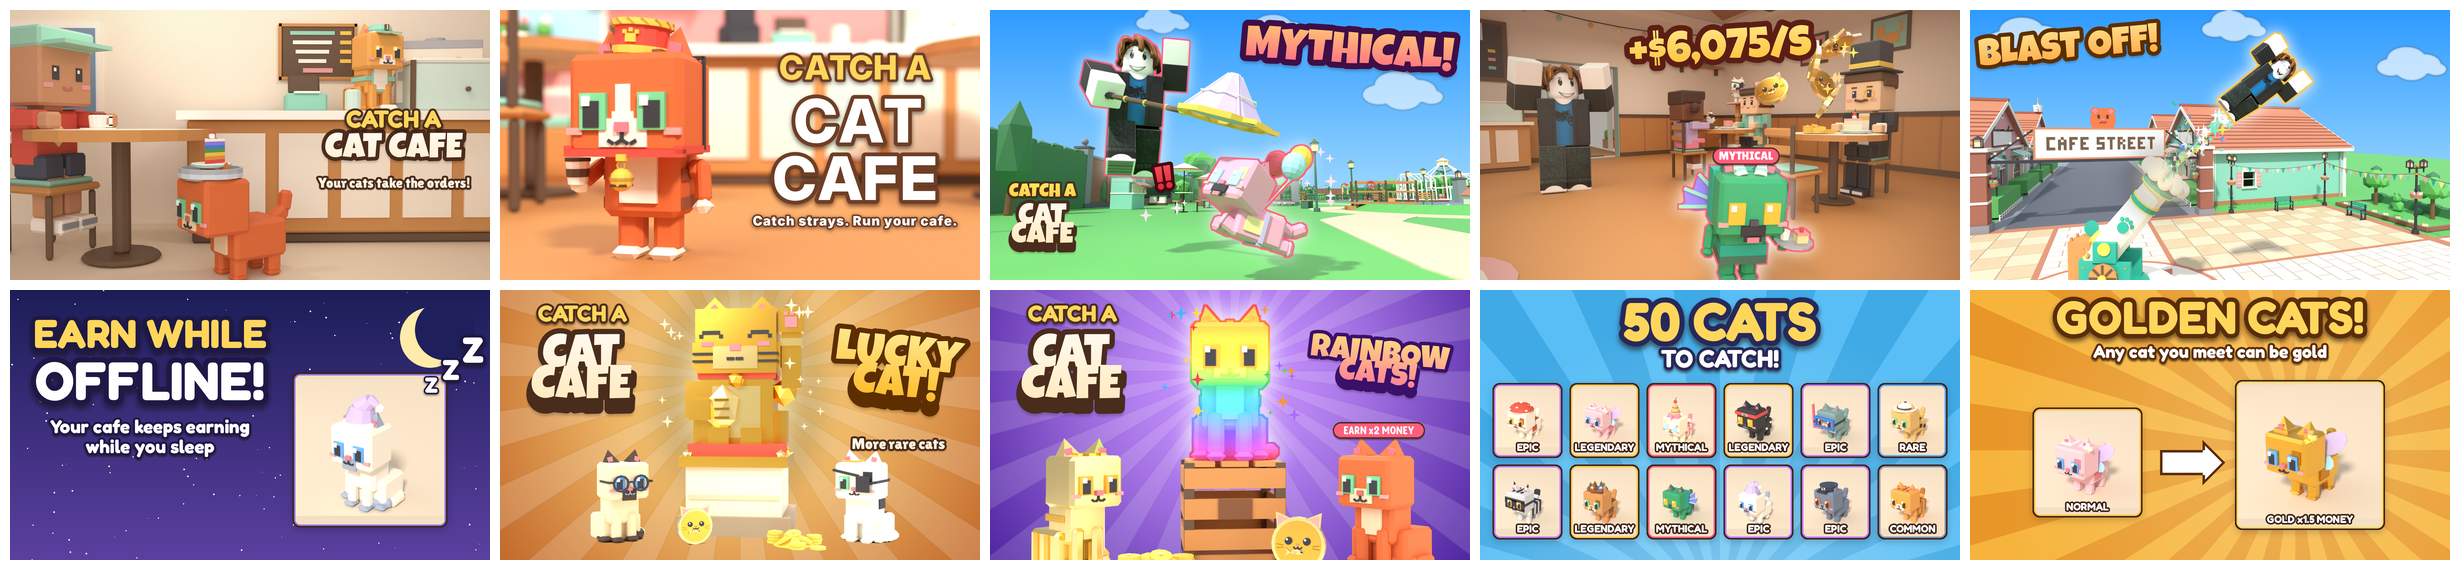
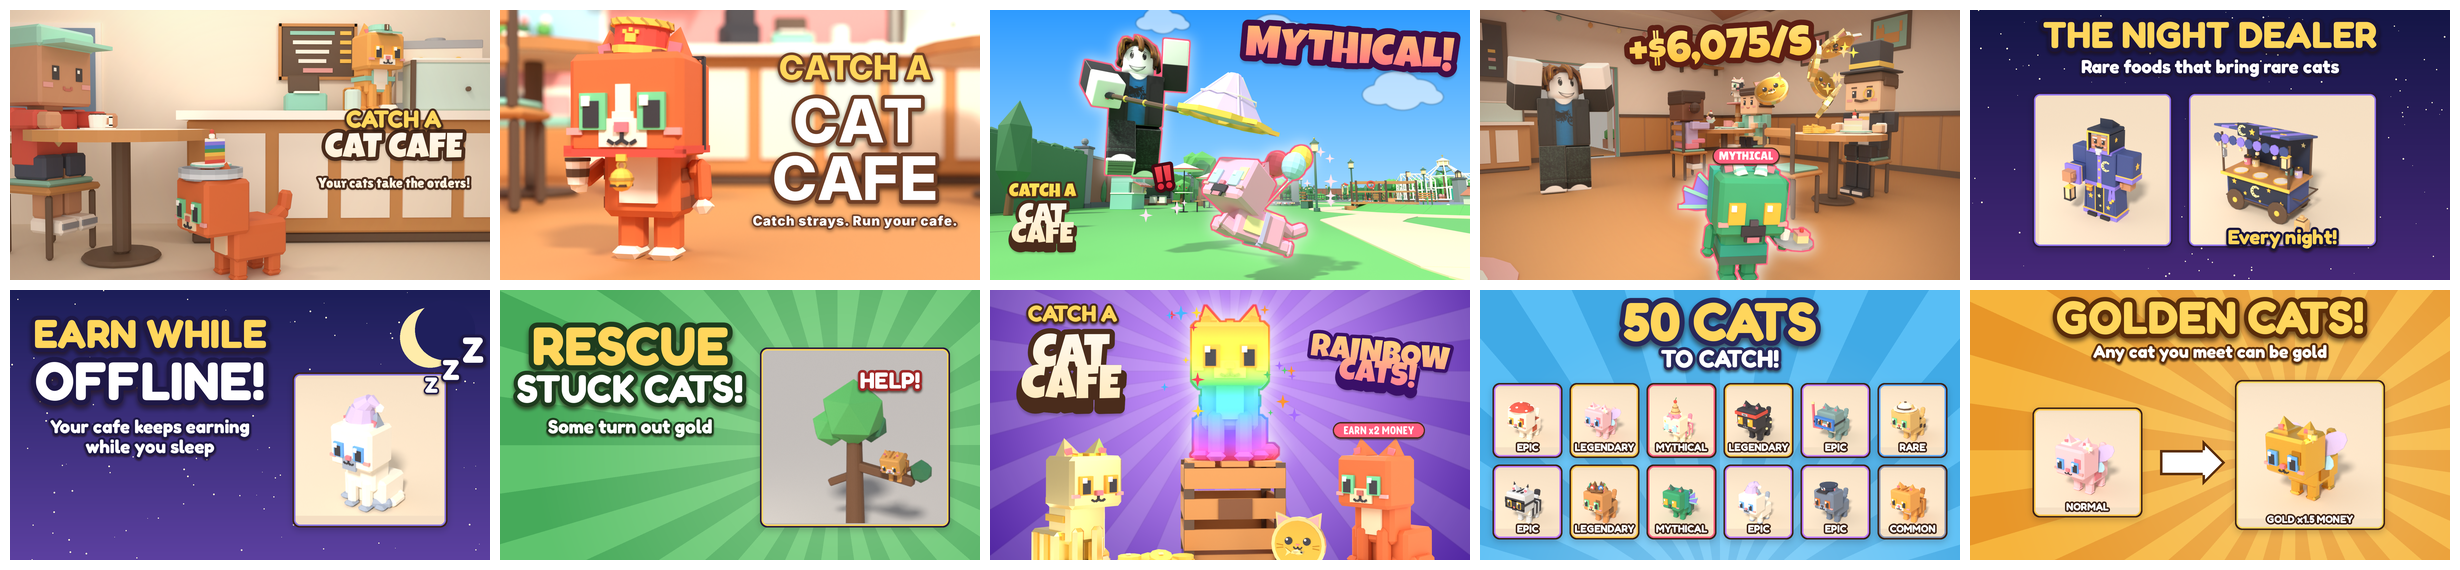
Ads: swap cannon and Lucky Cat for Night Dealer and Rescue (#2422 follow-up)
Derek2 2026-11-08: "swap the cannon and lucky cat ads for 2 different ones".

Claude-Session: https://claude.ai/code/session_01DW2uoy8twpm71brKt1HK2p

Changed region(s): [[0.8033, 0.0, 1.0, 0.507], [0.1854, 0.507, 0.4016, 0.9842]]

diff --git a/docs/growth/store-art/2026-11-08-ads/compose_new_ads.py b/docs/growth/store-art/2026-11-08-ads/compose_new_ads.py
@@ -93,3 +93,41 @@ def offline(out, name='Ragdoll_Sit'):
     for i,(x,y,s) in enumerate([(1660,350,60),(1730,280,80),(1810,190,100)]):
         im,_=text(im,'Z',x,y,s,(255,255,255),outline=(30,24,70),stroke=max(6,s//9),anchor_x='l')
     im.convert('RGB').save(out,optimize=True)
+
+def pcard(path, box, w, h, border):
+    """A card from any preview render, cropped to box."""
+    src=Image.open(path).convert('RGBA'); bg=src.getpixel((box[0]+4,box[1]+4))
+    cw,ch=w-24,h-24
+    crop=src.crop(box); s=min(cw/crop.width,ch/crop.height); crop=crop.resize((int(crop.width*s),int(crop.height*s)),Image.LANCZOS)
+    inner=Image.new('RGBA',(cw,ch),bg); inner.paste(crop,((cw-crop.width)//2,(ch-crop.height)//2))
+    c=Image.new('RGBA',(w,h),(0,0,0,0)); d=ImageDraw.Draw(c)
+    d.rounded_rectangle((0,0,w-1,h-1),radius=28,fill=(40,24,60,255)); d.rounded_rectangle((6,6,w-7,h-7),radius=24,fill=border+(255,))
+    mi=Image.new('L',(cw,ch),0); ImageDraw.Draw(mi).rounded_rectangle((0,0,cw-1,ch-1),radius=18,fill=255); c.paste(inner,(12,12),mi)
+    return c
+
+def dealer(out):
+    import random
+    W,H=1920,1080; P='docs/concepts/cat-cafe/previews/'
+    ys=np.linspace(0,1,H)[:,None,None]; top=np.array((20,22,70),float); bot=np.array((70,40,120),float)
+    im=Image.fromarray(((top*(1-ys)+bot*ys)*np.ones((1,W,1))).astype(np.uint8)).convert('RGBA')
+    d=ImageDraw.Draw(im); rnd=random.Random(11)
+    for _ in range(160):
+        x,y=rnd.randrange(W),rnd.randrange(H); r=rnd.choice([1,2,2,3]); d.ellipse((x-r,y-r,x+r,y+r),fill=(255,250,220,rnd.randrange(120,255)))
+    im,_=text(im,'THE NIGHT DEALER',960,48,104,YELLOW,outline=(25,20,60),stroke=15)
+    im,_=text(im,'Rare foods that bring rare cats',960,200,52,(255,255,255),outline=(25,20,60),stroke=8)
+    a=pcard(P+'CatCafe_NPC_Dealer.png',(150,40,490,440),560,620,(150,120,240))
+    b=pcard(P+'CatCafe_Street_DealerCart.png',(130,70,560,420),760,620,(150,120,240))
+    im=shadowed(im,a,(250,330)); im=shadowed(im,b,(870,330))
+    im,_=text(im,'Every night!',1250,880,56,YELLOW,outline=(25,20,60),stroke=9)
+    im.convert('RGB').save(out,optimize=True)
+
+def rescue(out):
+    P='docs/concepts/cat-cafe/previews/'
+    im=rays((1920,1080),(1350,620),(70,170,90),(95,195,110),glow=(240,255,220))
+    im,_=text(im,'RESCUE',520,150,150,YELLOW,outline=(30,60,30),stroke=20)
+    im,_=text(im,'STUCK CATS!',520,340,110,(255,255,255),outline=(30,60,30),stroke=16)
+    im,_=text(im,'Some turn out gold',520,520,54,(255,255,255),outline=(30,60,30),stroke=8)
+    c=pcard(P+'CatCafe_Park_RescueTree.png',(140,50,440,330),760,720,(255,214,92))
+    im=shadowed(im,c,(1040,230))
+    im,_=text(im,'HELP!',1560,330,64,(255,255,255),outline=(160,40,40),stroke=10)
+    im.convert('RGB').save(out,optimize=True)

diff --git a/docs/growth/store-art/2026-11-08-ads/README.md b/docs/growth/store-art/2026-11-08-ads/README.md
@@ -8,9 +8,9 @@ These are the 10 pictures for the first Ads Manager campaign in `docs/growth/ad-
 | `Ad_02_BellhopCafe.png` | Cute cat and the brand | Set 3 P v3, unchanged | The Bellhop Cat is the free starter cat (F96) |
 | `Ad_03_MythicalCatch.png` | Catch moment | Set 3 N v2, unchanged | The Balloon Cat is Mythical in Catalog, and the player swings the net |
 | `Ad_04_TopEarner.png` | Income | Set 3 L v2, unchanged | Mythical 75/s x Sewer 81 = 6,075/s (Catalog `AREA_INCOME`) |
-| `Ad_05_PlayerCannon.png` | Cannon, player hero | Set 3 O v2, unchanged | F84 Cat Cannon flight |
+| `Ad_05_NightDealer.png` | The night dealer (Derek2 2026-11-08: swap out the cannon) | New: the dealer and his cart from the preview renders on a starry sky | DealerService: the cart comes every night and sells rare foods for coins (no Robux), which give better odds of rare cats |
 | `Ad_06_EarnOffline.png` | Earn while offline (Derek2, 2026-11-08: "can also use earn offline for ads") | New: night sky with the Sleepy Cat (Ragdoll) in its nightcap | `Config.OfflineRate = 0.5` for up to 8 hours, free for everyone (the pass raises it, but the picture doesn't mention the pass) |
-| `Ad_07_LuckyCat.png` | Rare cats | Set 2 I, with CATCH A added | The Lucky Cat statue adds luck (`Config.LuckPerStatueLevel`) |
+| `Ad_07_RescueCats.png` | Rescuing stuck cats (Derek2 2026-11-08: swap out the Lucky Cat) | New: the Park rescue tree with its stuck cat | RescueService; `Config.GoldChanceRescue = 0.12`, so some rescued cats turn out gold |
 | `Ad_08_RainbowCats.png` | Rainbow cats | Set 2 F, with CATCH A added and the pill changed from x3 to **x2** | `Config.RainbowMultiplier = 2` (Derek2, 2026-11-07) |
 | `Ad_09_FiftyCats.png` | Collection | New: 12 cat cards from the preview renders, with rarity borders in the game's rarity colours | 50 catchable cats in Catalog; each card's rarity matches Catalog |
 | `Ad_10_GoldenCats.png` | Gold cats | New: Blossom next to its gold twin | Any stray can roll gold (`GoldChanceNet` / `GoldChanceBait`), and a gold cat earns `GoldMultiplier = 1.5` |
@@ -18,7 +18,7 @@ These are the 10 pictures for the first Ads Manager campaign in `docs/growth/ad-
 Left out:
 
 - Set 3 K ("1 IN 200"): a rainbow cat is now 1 in 67 (`RainbowChanceNet = 0.015`), so 200 overstates how rare it is. A rainbow Mythical really is about 1 in 5,500 per stray (1.2% Mythical in every area's odds x 1.5% rainbow). "1 IN 5,000+" would be a true and stronger hook, but it needs a new render of a rainbow Mythical.
-- Set 2 H and set 3 M: they repeat the cannon hook (M was in the first cut, and Derek2's offline idea replaced it).
+- The cannon (set 2 H, set 3 M and O v2) and the Lucky Cat (set 2 I): Derek2 swapped them out on 2026-11-08.
 - J and N v1: they repeat the catch hook.
 
 The plan also listed "friends" and "cozy night" scenes. They need new Blender renders, which this session could not make, so they are a follow-up.

diff --git a/docs/growth/ad-campaign-plan-2026-11-08.md b/docs/growth/ad-campaign-plan-2026-11-08.md
@@ -26,9 +26,9 @@ The finished pictures are in `store-art/2026-11-08-ads/`, and its README has the
 | 2 | Cute cat and the brand | `Ad_02_BellhopCafe.png` |
 | 3 | Catch moment (Mythical) | `Ad_03_MythicalCatch.png` |
 | 4 | Income (+$6,075/s) | `Ad_04_TopEarner.png` |
-| 5 | Cannon, player hero | `Ad_05_PlayerCannon.png` |
+| 5 | The night dealer: rare foods every night | `Ad_05_NightDealer.png` |
 | 6 | Earn while offline (Derek2, 2026-11-08) | `Ad_06_EarnOffline.png` |
-| 7 | Lucky Cat, more rare cats | `Ad_07_LuckyCat.png` |
+| 7 | Rescue stuck cats | `Ad_07_RescueCats.png` |
 | 8 | Rainbow cats, x2 money | `Ad_08_RainbowCats.png` |
 | 9 | Collection: 50 cats to catch | `Ad_09_FiftyCats.png` |
 | 10 | Golden cats | `Ad_10_GoldenCats.png` |
@@ -59,7 +59,7 @@ Ad day 1 is launch day 2 (launch day 1 stays friends-only, per the launch plan).
 | 2 | same | First look. Plays may still be catching up, so judge on CTR and clicks. | Pause any thumbnail under **1.5% CTR** with at least 2,000 impressions. |
 | 3 | same | Plays from day 1 are in now. | Pause any thumbnail with CPP over **$0.016** (twice the bar) or click-to-play under 2%, once it has 100 or more clicks. Keep at most 4 to 5. |
 | 4 | same | Run the survivors. | Lower or pause the weakest if one is clearly behind on CPP. |
-| 5 | same | **Checkpoint.** Keep the best 2 to 3, different from each other. Read RFY (below). If the game is doing decently (gate "Strong" or "Some" below), raise to about **$15 to $20** and add 1 to 2 new thumbnails built on what won. | see gates |
+| 5 | The night dealer: rare foods every night | `Ad_05_NightDealer.png` |
 | 6 to 7 | $10 to $20 | Run the 2 to 3 winners plus the 1 to 2 new ones. | End-of-week gate. |
 
 A thumbnail with too few impressions to judge (under 2,000 by day 3) is neither kept nor cut; Roblox's auto bidding may be starving it, and I flag that.
